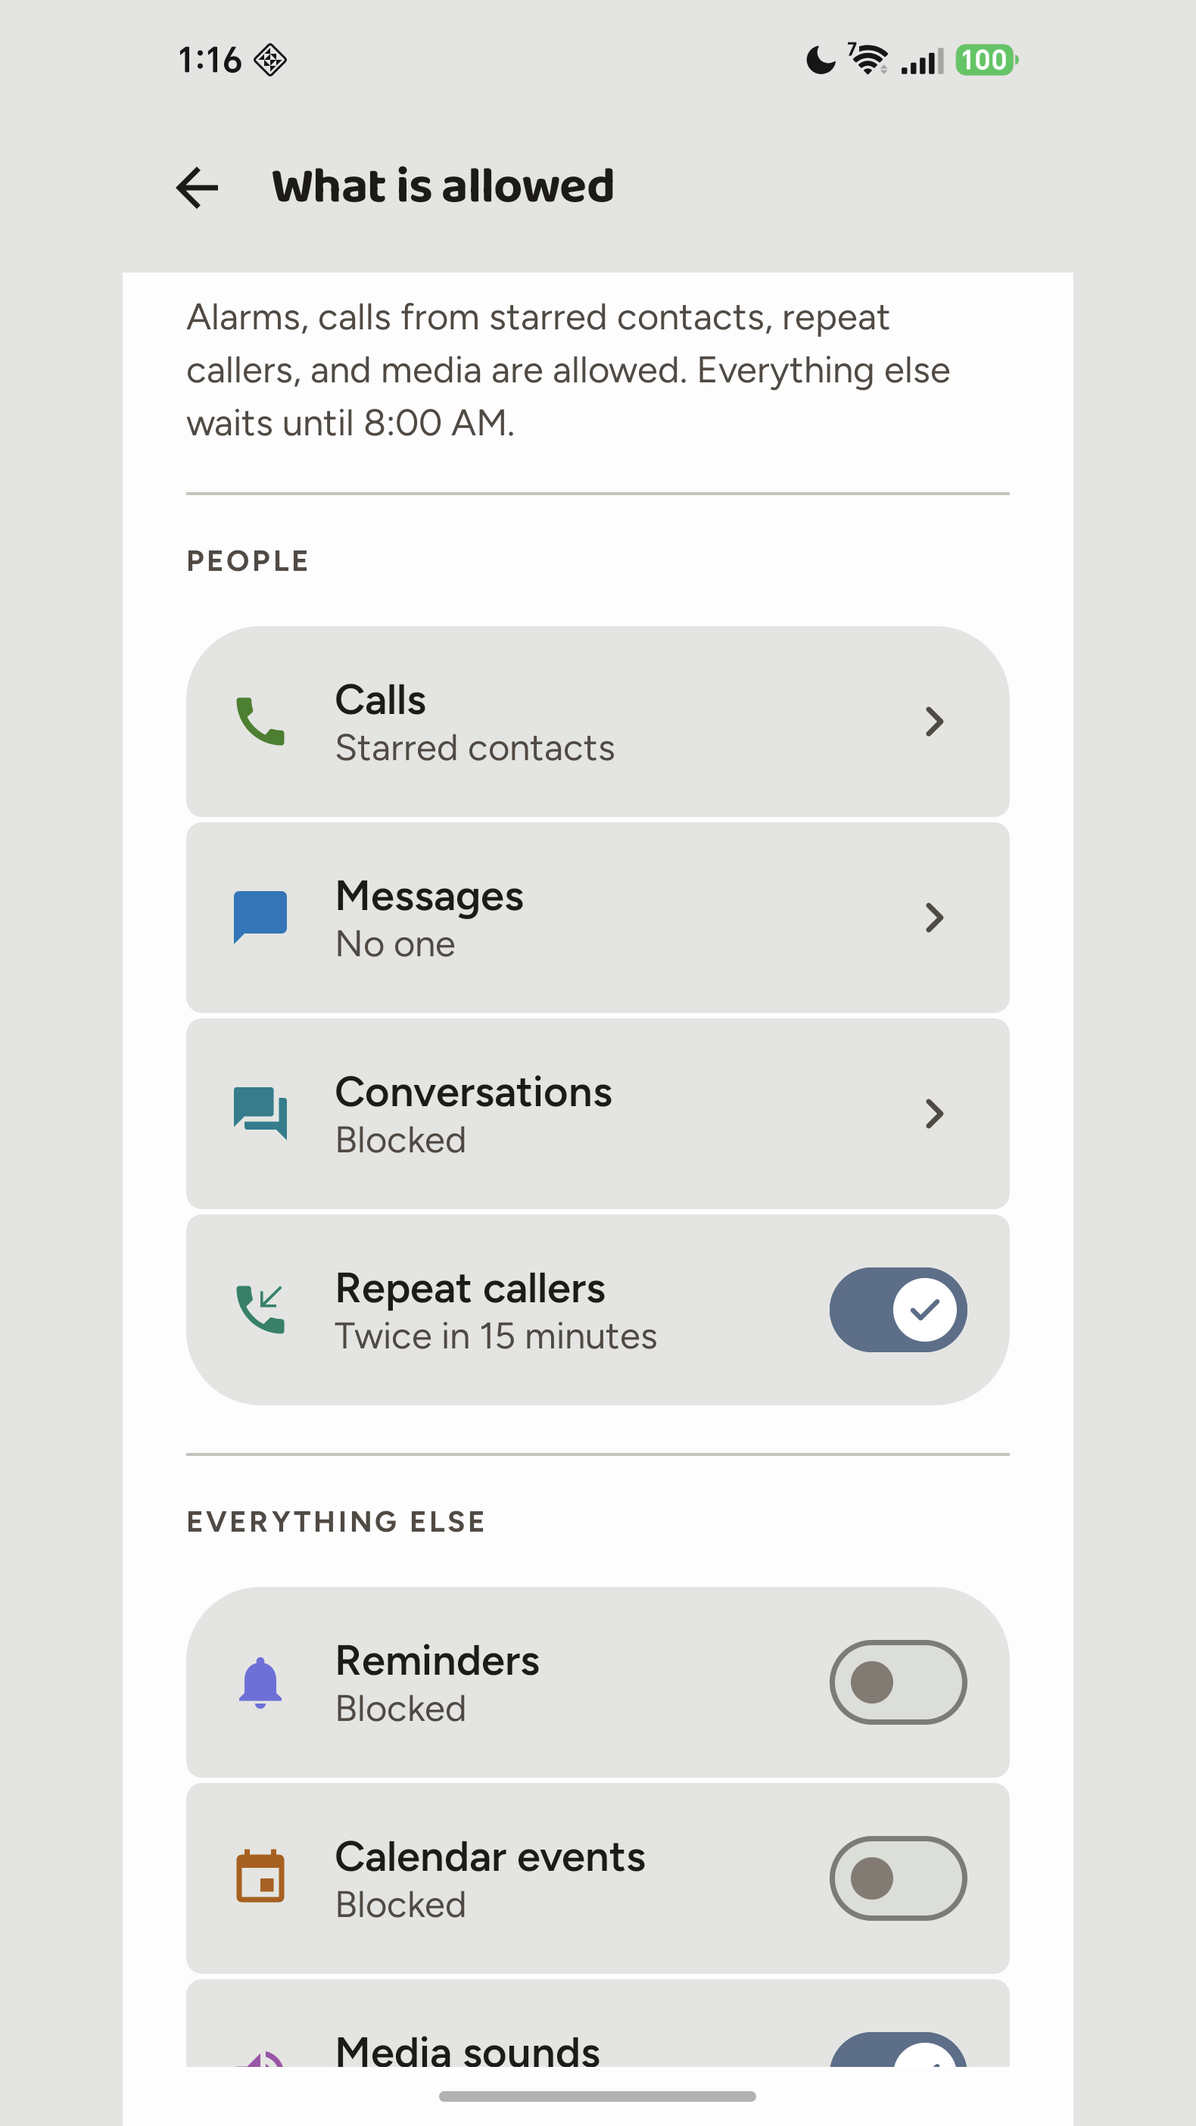
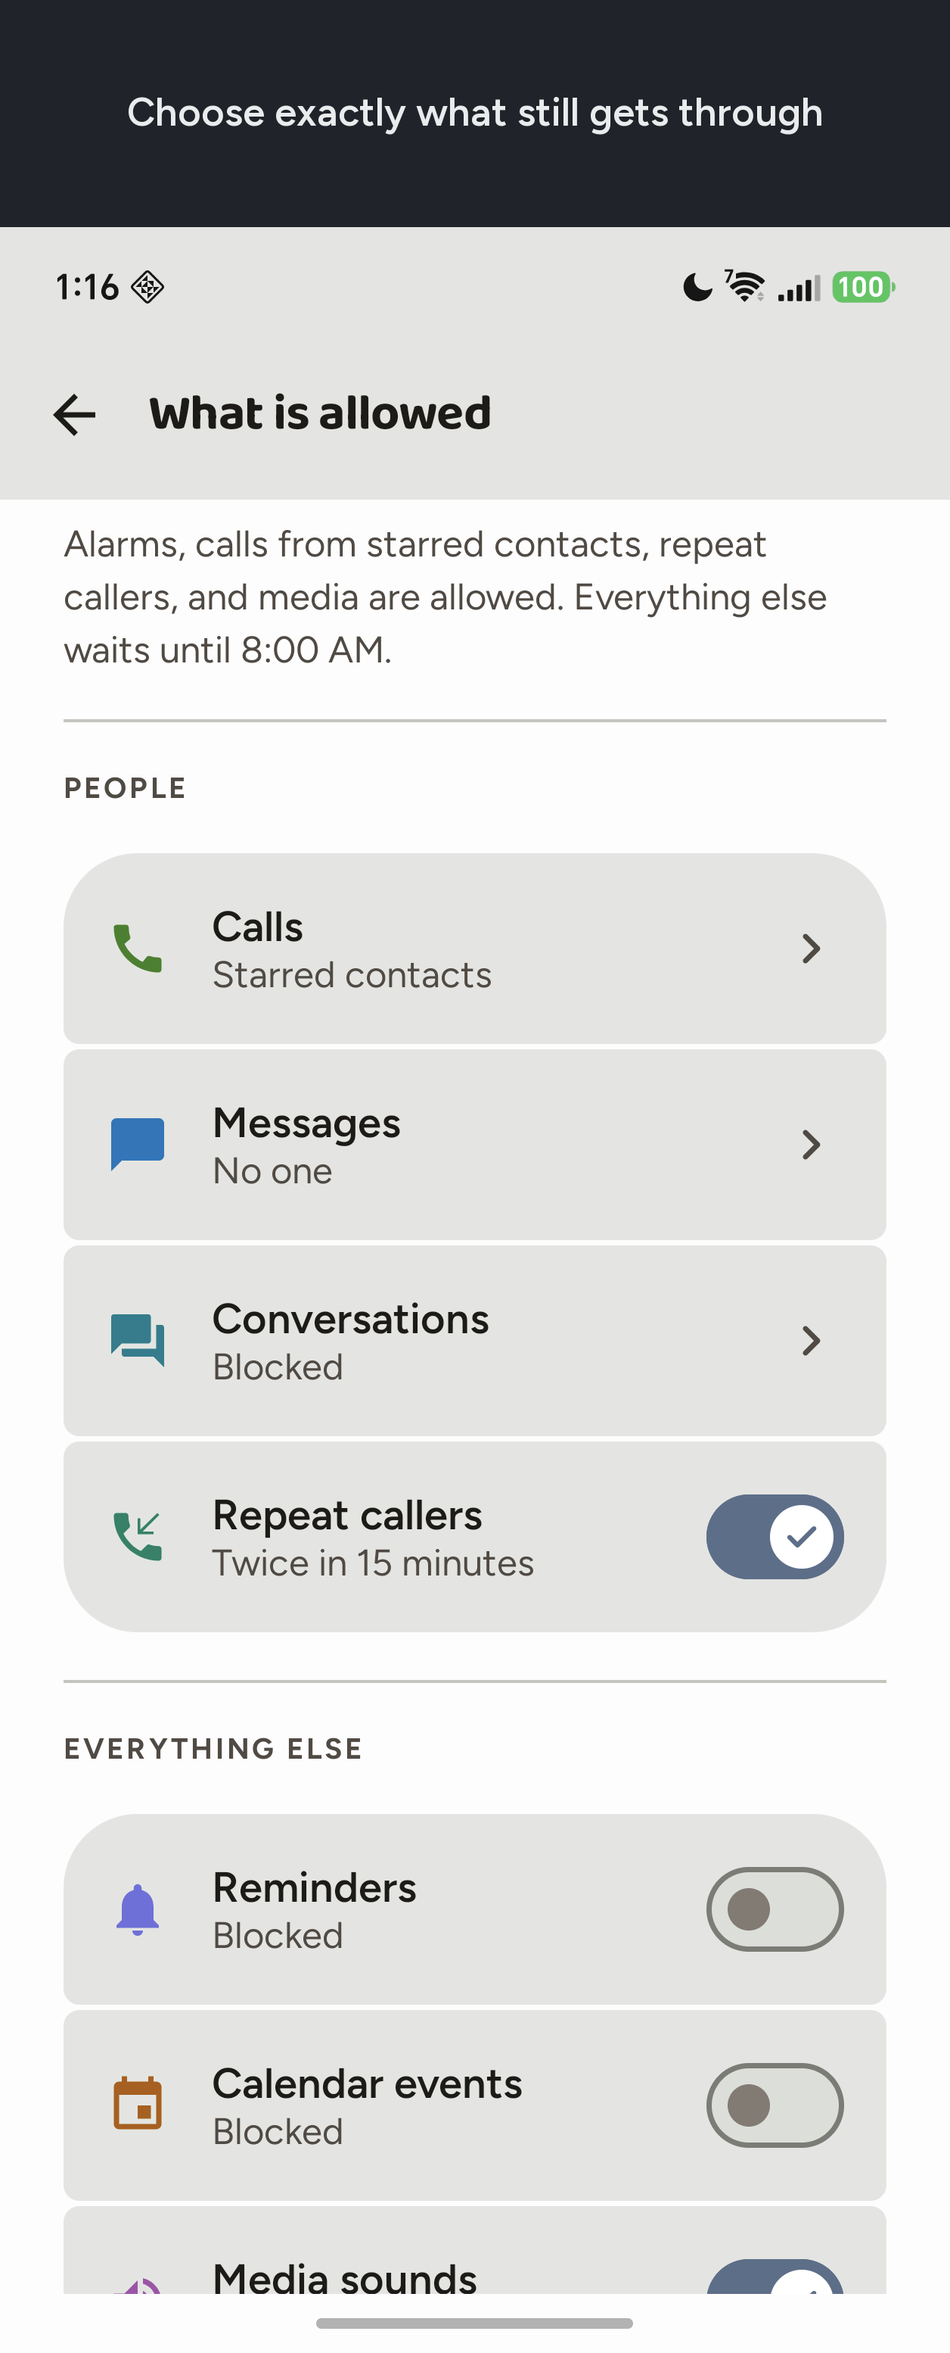
Tell testers which copy to install, and the carousel what it is showing (#33)
Two small things, both aimed at people arriving from outside the repo.

## The README warning is scoped, and that is the point

A blanket "don't install from Releases" would be **wrong**. For everyone
who is not a closed-test volunteer, that APK is the real one and the
only channel there is.

It is wrong only for testers: a hand-installed copy makes Play offer
*Open* rather than *Install*, so they never join through Play and it
doesn't count — and if the GitHub build's `versionCode` is at or above
the tested one, Play has no update path at all. Both halves are stated,
because a warning that tells your actual users to avoid your only
distribution channel is worse than no warning.

Rendered with `> [!IMPORTANT]`, directly under the header block, since
that is where a forwarded link lands.

## Screenshots: captions, no device frames

The question a store carousel leaves open is *what the screen is*.
Nobody scrolling a listing wonders whether it's a phone. A bezel answers
the question nobody asked, encodes nothing true, and costs pixels that a
24-hour dial and a stack of rows actually need — the same reasoning as
the design note in CLAUDE.md about structure encoding something true
rather than decorating.

One band colour across all five rather than following each shot's own
theme, so they read as a set.

## Two sets, because the aspect ratio is unsettled

Play's hard rule is only 320–3840px per side, which the captures satisfy
[…]

diff --git a/tools/play_assets.py b/tools/play_assets.py
@@ -19,7 +19,7 @@ rejection rather than a matter of taste:
                       guidance asks for. These are padded, not cropped - the
                       original framing is what the README shows and what the app
                       actually looks like, and cropping to fit a store would
-                      make the two disagree. Padding colour is sampled from each
+                      make the two disagree. Padding color is sampled from each
                       capture's own top-left pixel, so a Dusk shot pads dark and
                       a Dawn shot pads light.
 
@@ -74,7 +74,7 @@ def build_icon():
     """Full-bleed 512, alpha dropped. Play rounds it itself."""
     rgba = render(512, mask=False)
     rgb = Image.new('RGB', rgba.size, hx('#FFFFFF'))
-    rgb.paste(rgba, mask=None)          # mask=None: no alpha anywhere to honour
+    rgb.paste(rgba, mask=None)          # mask=None: no alpha anywhere to honor
     dest = os.path.join(OUT, 'icon-512.png')
     rgb.save(dest)
     print(dest, rgb.size, rgb.mode)
@@ -125,26 +125,85 @@ def build_feature():
     return dest
 
 
+# The README's order, which is also the order the store should tell it in: what
+# the night looks like, then what it does, then what you can change. The caption
+# says what the SCREEN is, because that is the question a carousel leaves open -
+# nobody scrolling a listing is wondering whether it is a phone.
+#
+# No device frame, deliberately. A bezel encodes nothing true and costs pixels,
+# and these screens are dense: a dial, a countdown and a stack of rows. Same
+# reason the app has no decorative structure - see the design note in CLAUDE.md.
+SHOTS = [
+    ('home.png',      'One window a night, dragged at either end'),
+    ('home-dark.png', 'Two themes, and it follows your phone'),
+    ('effects.png',   'Gray screen and dimmed wallpaper, where your phone allows it'),
+    ('allowed.png',   'Choose exactly what still gets through'),
+    ('settings.png',  'Theme, language, and the vendor screens that matter'),
+]
+
+BAND = 300          # caption band height, px
+CAP_SIZE = 52
+
+
+def _wrap(d, text, font, width):
+    words, lines, line = text.split(), [], ''
+    for w in words:
+        t = f'{line} {w}'.strip()
+        if d.textlength(t, font=font) <= width:
+            line = t
+        else:
+            lines.append(line); line = w
+    if line:
+        lines.append(line)
+    return lines
+
+
 def build_screenshots():
-    """Pad each capture out to 9:16. Never crop - see the module docstring."""
+    """Caption each capture. Also keep a plain 9:16 set as a fallback.
+
+    Two sets because the aspect ratio is unsettled. Play's hard rule is only
+    that each side is 320-3840px, which the captures already satisfy at
+    1256x2808; the 9:16 figure is guidance tied to promotional placement. So the
+    captioned set keeps the phone's own aspect and the plain padded set stands
+    by in case Console objects - which is cheaper than guessing wrong and
+    re-shooting.
+
+    Neither crops. The README's framing is what the app looks like.
+    """
     src = os.path.join(ROOT, 'docs', 'screenshots')
-    dst = os.path.join(OUT, 'screenshots')
-    os.makedirs(dst, exist_ok=True)
-    # The README's order, which is also the order the store should tell it in:
-    # what it looks like, then what it does, then what you can change.
-    order = ['home.png', 'home-dark.png', 'effects.png', 'allowed.png', 'settings.png']
-    for i, name in enumerate(order, start=1):
+    cap_dir = os.path.join(OUT, 'screenshots')
+    plain_dir = os.path.join(OUT, 'screenshots-plain-9x16')
+    os.makedirs(cap_dir, exist_ok=True)
+    os.makedirs(plain_dir, exist_ok=True)
+
+    font = figtree(CAP_SIZE, 600)
+    for i, (name, caption) in enumerate(SHOTS, start=1):
         im = Image.open(os.path.join(src, name)).convert('RGB')
         w, h = im.size
-        want = int(round(h * 9 / 16))
-        if want <= w:
-            out = im                       # already 9:16 or wider; leave it alone
-        else:
-            out = Image.new('RGB', (want, h), im.getpixel((0, 0)))
-            out.paste(im, ((want - w) // 2, 0))
-        p = os.path.join(dst, f'{i}.png')
+
+        # Captioned: a Dusk band above the shot, the same band on all five so
+        # they read as one set rather than following each screenshot's theme.
+        out = Image.new('RGB', (w, h + BAND), hx(SURFACE))
+        out.paste(im, (0, BAND))
+        d = ImageDraw.Draw(out)
+        lines = _wrap(d, caption, font, w - 160)
+        lh = CAP_SIZE * 1.32
+        y = (BAND - lh * len(lines)) / 2
+        for ln in lines:
+            d.text(((w - d.textlength(ln, font=font)) / 2, y), ln,
+                   font=font, fill=hx(ON_SURFACE))
+            y += lh
+        p = os.path.join(cap_dir, f'{i}.png')
         out.save(p)
-        print(p, out.size, f'({name})')
+        print(p, out.size, f'({name}) "{caption}"')
+
+        # Plain, padded to 9:16 from each capture's own corner color, so a Dusk
+        # shot pads dark and a Dawn shot pads light.
+        want = int(round(h * 9 / 16))
+        pl = im if want <= w else Image.new('RGB', (want, h), im.getpixel((0, 0)))
+        if want > w:
+            pl.paste(im, ((want - w) // 2, 0))
+        pl.save(os.path.join(plain_dir, f'{i}.png'))
 
 
 if __name__ == '__main__':

diff --git a/README.md b/README.md
@@ -23,13 +23,24 @@ it — driven by exact alarms, so it fires with the app closed.
 
 </div>
 
+> [!IMPORTANT]
+> **Here for the Google Play closed test?** Install from the Play link you were
+> sent — **not** from [Releases](https://github.com/jemcik/Gloaming/releases). A
+> hand-installed copy makes Play offer *Open* rather than *Install*, so you never
+> join the test through Play and it does not count; and if the GitHub build's
+> `versionCode` is at or above the tested one, Play has no update path at all.
+> Already sideloaded it? Uninstall first, then use the link.
+>
+> **Everyone else:** Releases is the right place and the APK there is the real
+> one, signed with the project key.
+
 ## Why it exists
 
 Android's own bedtime mode is scheduled as a **WorkManager job**, and jobs are
 advisory. The system decides when they run, and every vendor's battery
 management gets a say on top of that. When something in that chain defers a job
 indefinitely, bedtime silently never happens — there is no error, no
-notification, nothing to notice except that the screen stayed colourful.
+notification, nothing to notice except that the screen stayed colorful.
 
 Exact alarms are the other path. They are a separate, user-granted permission
 with a scheduling guarantee, and they do not go through JobScheduler at all.
@@ -84,7 +95,7 @@ doing it, or on any vendor doing it at all.
   screen reports what the system says is actually in effect, rather than what the
   app believes it asked for. Alarms are always allowed, and the app says that is
   its own choice rather than pretending the platform forbids silencing them.
-- **Screen effects**, as far as your phone honours them: greyscale, wallpaper
+- **Screen effects**, as far as your phone honors them: grayscale, wallpaper
   dimming, dark theme, always-on display. All four are standard
   `ZenDeviceEffects`, and a device will happily accept an effect it has no
   intention of applying — so which ones take effect varies. Where an effect does
@@ -107,7 +118,7 @@ doing it, or on any vendor doing it at all.
   stated in Material 3's own tone scale, and checked against what Google's apps
   actually ship on a phone rather than against the documentation — the two
   agree, which is worth knowing before treating the spec as an ideal nobody
-  follows. Every contrast figure sits in the source beside the colour it
+  follows. Every contrast figure sits in the source beside the color it
   belongs to, including the ones that only just pass and the one that
   deliberately does not.
 - **English, Russian and Ukrainian**, with a per-app language picker, and clock
@@ -142,7 +153,7 @@ into working:
   platform's own getters are `@hide` — and it expires by itself the moment the
   effects are observed working.
 - The one device list is an **exclusion** list, consulted only when the AOSP key
-  it would otherwise read is absent — so an unrecognised phone is treated as
+  it would otherwise read is absent — so an unrecognized phone is treated as
   capable rather than as broken.
 - The only writes to `Settings.*` in the whole app are the always-on routes
   below, and each is gated on a permission the app does not hold by default. On
@@ -196,7 +207,7 @@ decided are unimportant. Measured on an Honor Magic8 Pro: with Gloaming set to
 armed with no alarms behind it until it was next opened — silently, all night.
 
 Fix it once, in **Settings ▸ Apps ▸ App launch ▸ Gloaming ▸ Manage manually**,
-with auto-launch on. Battery optimisation is a different setting and does not
+with auto-launch on. Battery optimization is a different setting and does not
 help; it was tested both ways.
 
 Gloaming notices this by itself and offers a button straight to the right
@@ -250,15 +261,15 @@ Sleep mode, which is also how Honor's were found.
 ### Samsung: the screen effects are not shown, and that is deliberate
 
 One UI accepts the zen rule's `ZenDeviceEffects` and applies none of them —
-greyscale, wallpaper dimming and dark theme are all inert, checked across a
+grayscale, wallpaper dimming and dark theme are all inert, checked across a
 screen-off cycle because AOSP defers night mode there on purpose. A switch that
 does nothing is worse than an absent one, so those three are hidden on such a
 phone.
 
 Settings then offers **System bedtime mode**, which opens One UI's own Sleep
-mode — where its greyscale genuinely works. Every other route was chased to a
+mode — where its grayscale genuinely works. Every other route was chased to a
 measured dead end and the results are in
-[docs/DECISIONS.md](docs/DECISIONS.md): there is no settings key for greyscale,
+[docs/DECISIONS.md](docs/DECISIONS.md): there is no settings key for grayscale,
 `setWallpaperDimAmount` is `@hide`, and `UiModeManager.setNightMode` compiles,
 throws nothing and changes nothing without a signature permission.
 
@@ -321,7 +332,7 @@ in Ukrainian is a bug you cannot see from the source — at the width the row
 actually has on the screen, which is not the width of the screen.
 
 What they cannot cover is everything that depends on the device: whether an
-exact alarm fires with the screen off, whether greyscale is really applied,
+exact alarm fires with the screen off, whether grayscale is really applied,
 whether `updateAutomaticZenRule` clears a rule's condition. That is what the
 journal and `tools/check.sh` are for.
 
@@ -355,19 +366,28 @@ tag, builds a signed release APK and attaches it to the GitHub Release — relea
 assets are downloadable without a GitHub account, which workflow artifacts are
 not.
 
+The same run also builds a signed **App Bundle**, which is what Google Play
+requires and will not do without. That one is kept as a *workflow artifact*
+rather than a release asset, for the reason above read backwards: an `.aab`
+cannot be installed by anyone, so on a public page it is only an invitation to
+download the wrong file. Whoever uploads it to Play Console has a GitHub
+account by definition. Both artefacts come from one Gradle invocation and
+therefore one `versionCode`, and both are signed with the same key — verified
+on a real run, identical certificate.
+
 Published releases start at **0.7**, and **0.10** is current; the tags before
 that have no downloadable build behind them. If a pre-0.7 Gloaming is still on a
 phone, uninstall it rather than expecting an upgrade — 0.1 and 0.2 went out as
 debug builds, and a CI runner generates a fresh debug key per run, so they were
 signed by throwaway certificates Android will not install over.
 
-## Licence
+## License
 
 Apache License 2.0 — see [LICENSE](LICENSE).
 
 The repository also redistributes two SIL Open Font License fonts and a set of
 Material Design icon paths; [NOTICE.md](NOTICE.md) lists them with their
-licences.
+licenses.
 
 ## CLAUDE.md and docs/DECISIONS.md
 
@@ -381,14 +401,14 @@ before touching anything.
 measurement, and every wrong first attempt kept beside the answer, because how a
 thing was got wrong is usually the more useful half. Among them: that
 `updateAutomaticZenRule` silently clears a rule's condition, so rewriting a live
-rule switches Do Not Disturb off underneath you; that a dark warm colour is
+rule switches Do Not Disturb off underneath you; that a dark warm color is
 always brown; that a screenshot can compare two captures but can never establish
-that a colour is right, because on a panel not running in sRGB the framebuffer
+that a color is right, because on a panel not running in sRGB the framebuffer
 and the glass disagree; and that centring a crescent by its own centroid moves
 it somewhere it does not look centred.
 
 It also keeps its own reversals. The launcher icon's entry opens by saying no
-flat colour can serve the artwork, then records how a white tile did — the
+flat color can serve the artwork, then records how a white tile did — the
 evidence was right and the conclusion drawn from it was too narrow. Much of the
 file is written against one phone, because that is the phone it could be
 measured on.

diff --git a/docs/play-listing.md b/docs/play-listing.md
@@ -21,7 +21,7 @@ Gloaming
 ## Short description (80 max)
 
 ```
-Bedtime that keeps its own schedule: Do Not Disturb, greyscale, dimmed screen.
+Bedtime that keeps its own schedule: Do Not Disturb, grayscale, dimmed screen.
 ```
 
 ## Full description (4000 max)
@@ -29,11 +29,11 @@ Bedtime that keeps its own schedule: Do Not Disturb, greyscale, dimmed screen.
 ```
 Gloaming makes your phone boring at night.
 
-At a time you choose, it switches on Do Not Disturb, drains the screen to greyscale and dims the wallpaper — so when you pick the phone up at 1am out of habit, there is nothing there to hold you. Colour and notifications come back in the morning.
+At a time you choose, it switches on Do Not Disturb, drains the screen to grayscale and dims the wallpaper — so when you pick the phone up at 1am out of habit, there is nothing there to hold you. Color and notifications come back in the morning.
 
 WHY THIS ONE
 
-Android already has a bedtime mode. On a lot of phones it silently never fires. It is scheduled as a background job, and every vendor's battery management gets a say in whether background jobs ever run. When something in that chain defers it there is no error and no notification — just a screen that stayed colourful all night.
+Android already has a bedtime mode. On a lot of phones it silently never fires. It is scheduled as a background job, and every vendor's battery management gets a say in whether background jobs ever run. When something in that chain defers it there is no error and no notification — just a screen that stayed colorful all night.
 
 Gloaming uses exact alarms instead. They are a separate, user-granted permission with a scheduling guarantee, and they do not go through the job scheduler at all. The app holds its own Do Not Disturb rule and flips it from its own alarms, so bedtime happens whether or not the app is open.
 
@@ -47,7 +47,7 @@ WHAT YOU GET
 
 • An allowlist for the night — who can call, who can message, conversations, repeat callers, reminders, calendar events, media. The screen reports what the system says is in effect, not what the app believes it asked for.
 
-• Screen effects, as far as your phone honours them: greyscale, wallpaper dimming, dark theme, always-on display. Where an effect does nothing on your device the switch is not drawn at all, rather than offering one that lies.
+• Screen effects, as far as your phone honors them: grayscale, wallpaper dimming, dark theme, always-on display. Where an effect does nothing on your device the switch is not drawn at all, rather than offering one that lies.
 
 • It watches its own alarms. If the end of a night comes due and does not arrive on time, you are told, with a button to the setting that usually explains it.
 

diff --git a/CLAUDE.md b/CLAUDE.md
@@ -376,10 +376,14 @@ is in DECISIONS.md.
     python3 tools/play_assets.py        the Play store assets into docs/play/.
                          Play refuses what the README needs: an alpha channel on
                          the icon. Same geometry, `mask=False`, and Play applies
-                         its own corner mask. Screenshots are PADDED to 9:16,
-                         never cropped - the README's framing is what the app
-                         looks like, and cropping to fit a store makes the two
-                         disagree
+                         its own corner mask. Screenshots come out TWICE -
+                         captioned at the phone's own aspect, and plain padded
+                         to 9:16 - because Play's hard rule is only 320-3840px
+                         per side and the 9:16 figure is guidance. Neither set
+                         crops: the README's framing is what the app looks like,
+                         and cropping to fit a store makes the two disagree.
+                         No device frames - a bezel encodes nothing true and
+                         costs pixels these screens need
     adb shell run-as com.jemcik.gloaming cat files/journal.log
 
 Unit tests run on **JDK 21**, pinned in `app/build.gradle.kts`. The reason —

diff --git a/NOTICE.md b/NOTICE.md
@@ -7,7 +7,7 @@ Gloaming bundles the following third-party material.
 Both fonts are redistributed in this repository under the
 **SIL Open Font License, Version 1.1**, whose full text is included as required.
 
-| Font | Where | Copyright | Licence |
+| Font | Where | Copyright | License |
 |---|---|---|---|
 | Baloo 2 | `app/src/main/res/font/baloo2.ttf` | Copyright 2019 The Baloo 2 Project Authors (https://github.com/EkType/Baloo2) | [licenses/Baloo2-OFL.txt](licenses/Baloo2-OFL.txt) |
 | Figtree | `app/src/main/res/font/figtree.ttf` | Copyright 2022 The Figtree Project Authors (https://github.com/erikdkennedy/figtree) | [licenses/Figtree-OFL.txt](licenses/Figtree-OFL.txt) |
